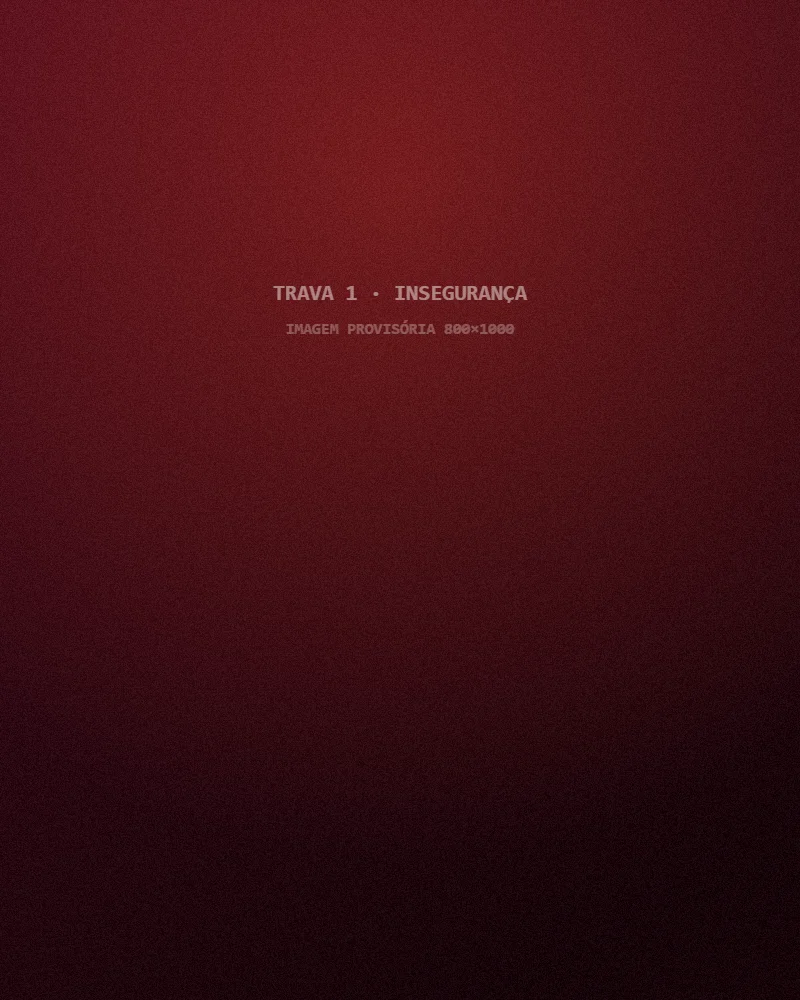
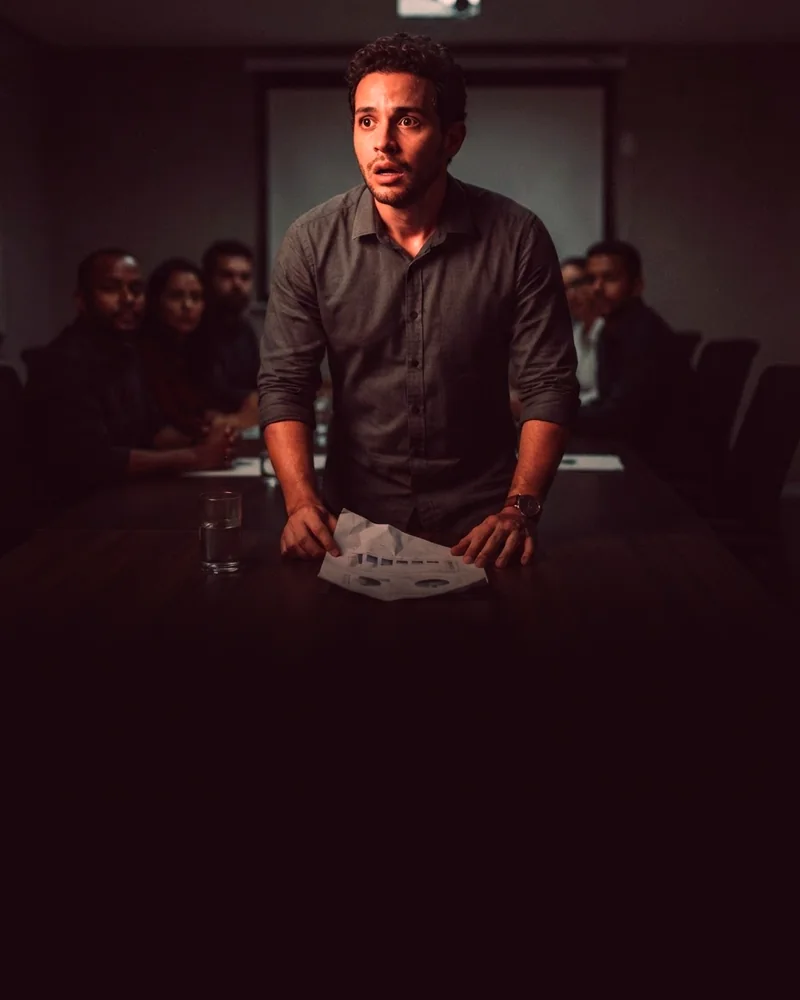
Troca as imagens provisórias dos cards da dobra 2
Substitui trava-1/2/3.webp pelas fotos definitivas, geradas no Magnific em
4:5 (800x1000) e tratadas na paleta vinho da página: o branco na hora H,
a apresentação que perde o fio e a desistência de gravar. As três têm a
metade de baixo caindo pro escuro, que é onde o texto do card entra.

Ajusta o card: contorno de 1px pra segurar a silhueta contra o fundo escuro
e véu de leitura começando um pouco mais tarde, já que a foto agora escurece
sozinha.

Claude-Session: https://claude.ai/code/session_01XFCnKmBpAxcmL9GZPj8FKf

diff --git a/assets/css/style.css b/assets/css/style.css
@@ -627,6 +627,8 @@ button { font: inherit; color: inherit; }
   /* Altura calibrada para o texto ocupar cerca de metade do card */
   min-height: 38rem;
   border-radius: 20px;
+  /* Contorno que segura a silhueta do card: a foto some no fundo escuro */
+  border: 1px solid color-mix(in srgb, var(--bone) 9%, transparent);
   background-color: var(--wine);
   box-shadow: 0 26px 60px -34px rgb(0 0 0 / 0.95);
   overflow: hidden;
@@ -653,9 +655,9 @@ button { font: inherit; color: inherit; }
   z-index: -1;
   background: linear-gradient(180deg,
     color-mix(in srgb, var(--ink) 12%, transparent) 0%,
-    color-mix(in srgb, var(--ink) 34%, transparent) 34%,
-    color-mix(in srgb, var(--ink) 88%, transparent) 52%,
-    var(--ink) 82%);
+    color-mix(in srgb, var(--ink) 34%, transparent) 36%,
+    color-mix(in srgb, var(--ink) 88%, transparent) 56%,
+    var(--ink) 84%);
 }
 
 .trava--1 { --trava-img: url('../img/trava-1.webp'); }

diff --git a/index.html b/index.html
@@ -138,7 +138,7 @@
 
     <!-- ============================================================
          DOBRA 2 — a dor: em qual das três travas a pessoa se encaixa
-         Imagens dos cards: trava-1/2/3.webp são provisórias.
+         Imagens dos cards: trava-1/2/3.webp (4:5, metade de baixo escura pro texto).
          ============================================================ -->
     <section class="travas" id="dobra-2">
       <div class="travas__intro" data-reveal>

diff --git a/README.md b/README.md
@@ -56,10 +56,12 @@ Aparece em dois lugares e os dois precisam ser alterados juntos:
 - **Fontes** ficam em `assets/fonts/` e são carregadas por `@font-face` local,
   sem chamada ao Google Fonts: Archivo (títulos e corpo), Instrument Serif
   itálica (linha de ênfase) e IBM Plex Mono (dígitos do contador).
-- **Cards da dobra 2**: `trava-1.webp`, `trava-2.webp` e `trava-3.webp` são
-  imagens provisórias geradas só para fechar o layout. Substituir pelos arquivos
-  definitivos mantendo os mesmos nomes, em formato vertical (proporção 4:5),
-  com a metade de baixo sem elementos importantes: é onde o texto entra.
+- **Cards da dobra 2**: `trava-1.webp` (o branco na hora H), `trava-2.webp`
+  (perde o fio da apresentação) e `trava-3.webp` (desiste de gravar) são fotos
+  geradas no Magnific, 800×1000 (4:5), tratadas no vinho da paleta e com a
+  metade de baixo caindo pro escuro — é onde o texto do card entra. Ao trocar
+  qualquer uma, manter o nome do arquivo e a mesma receita: vertical 4:5,
+  assunto na metade de cima, metade de baixo sem elemento importante.
 - **Foto da hero**: o original `background-hero.png` (2,5 MB) fica no repositório
   como fonte, mas quem vai ao ar são as versões WebP `hero-760`, `hero-1200` e
   `hero-1920`, servidas por media query no CSS (128 KB na maior). Ao trocar a
